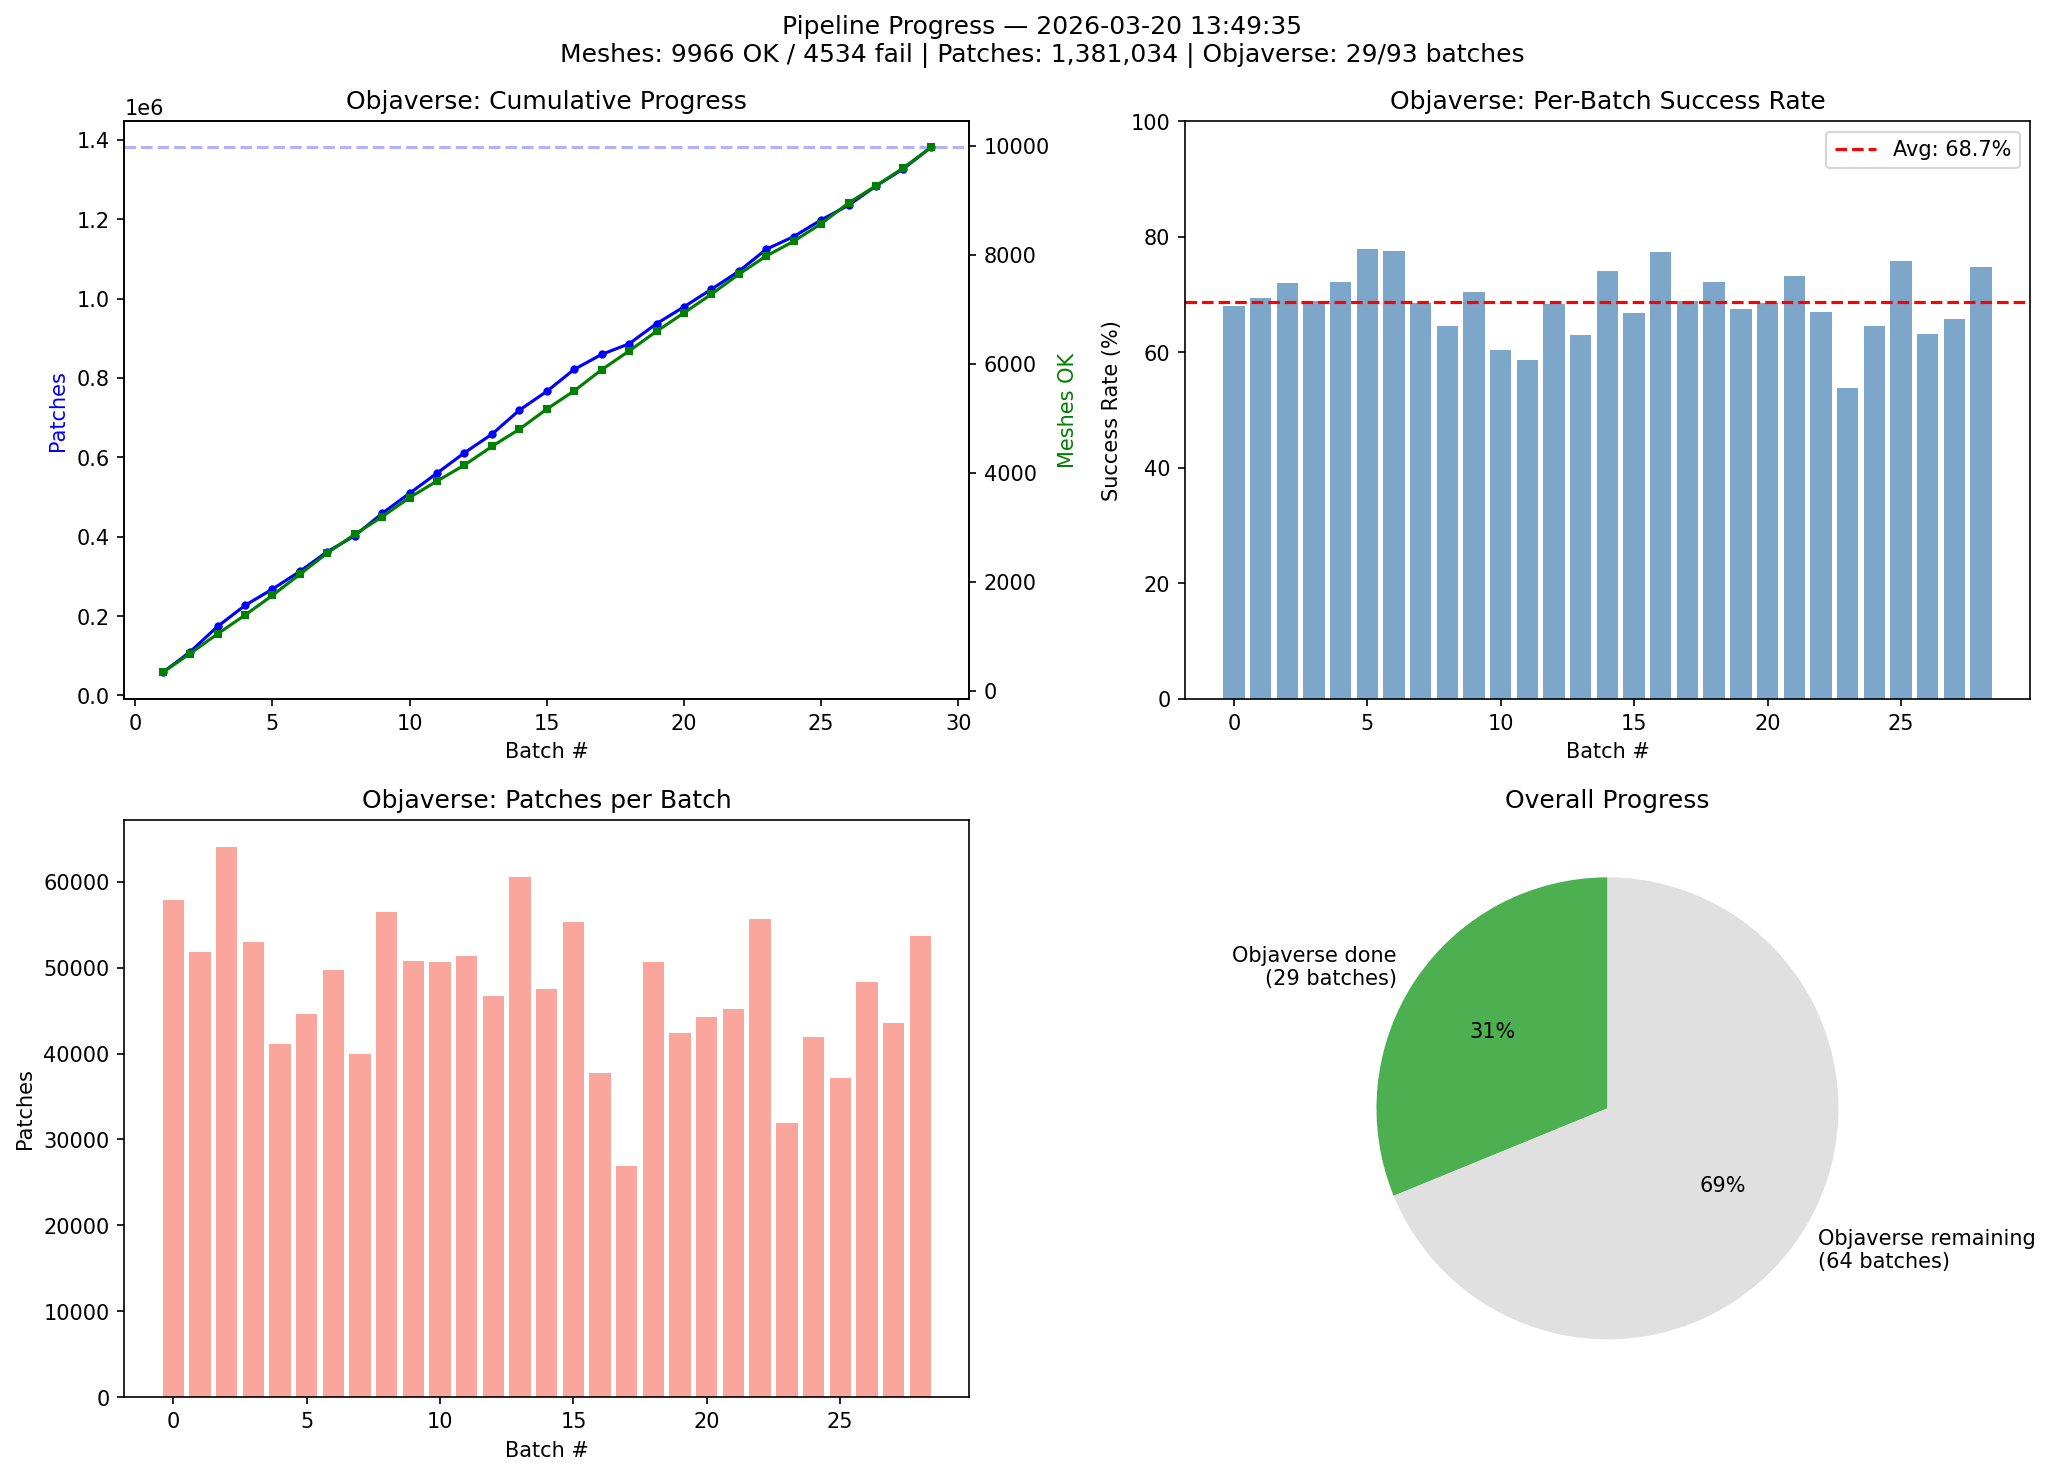
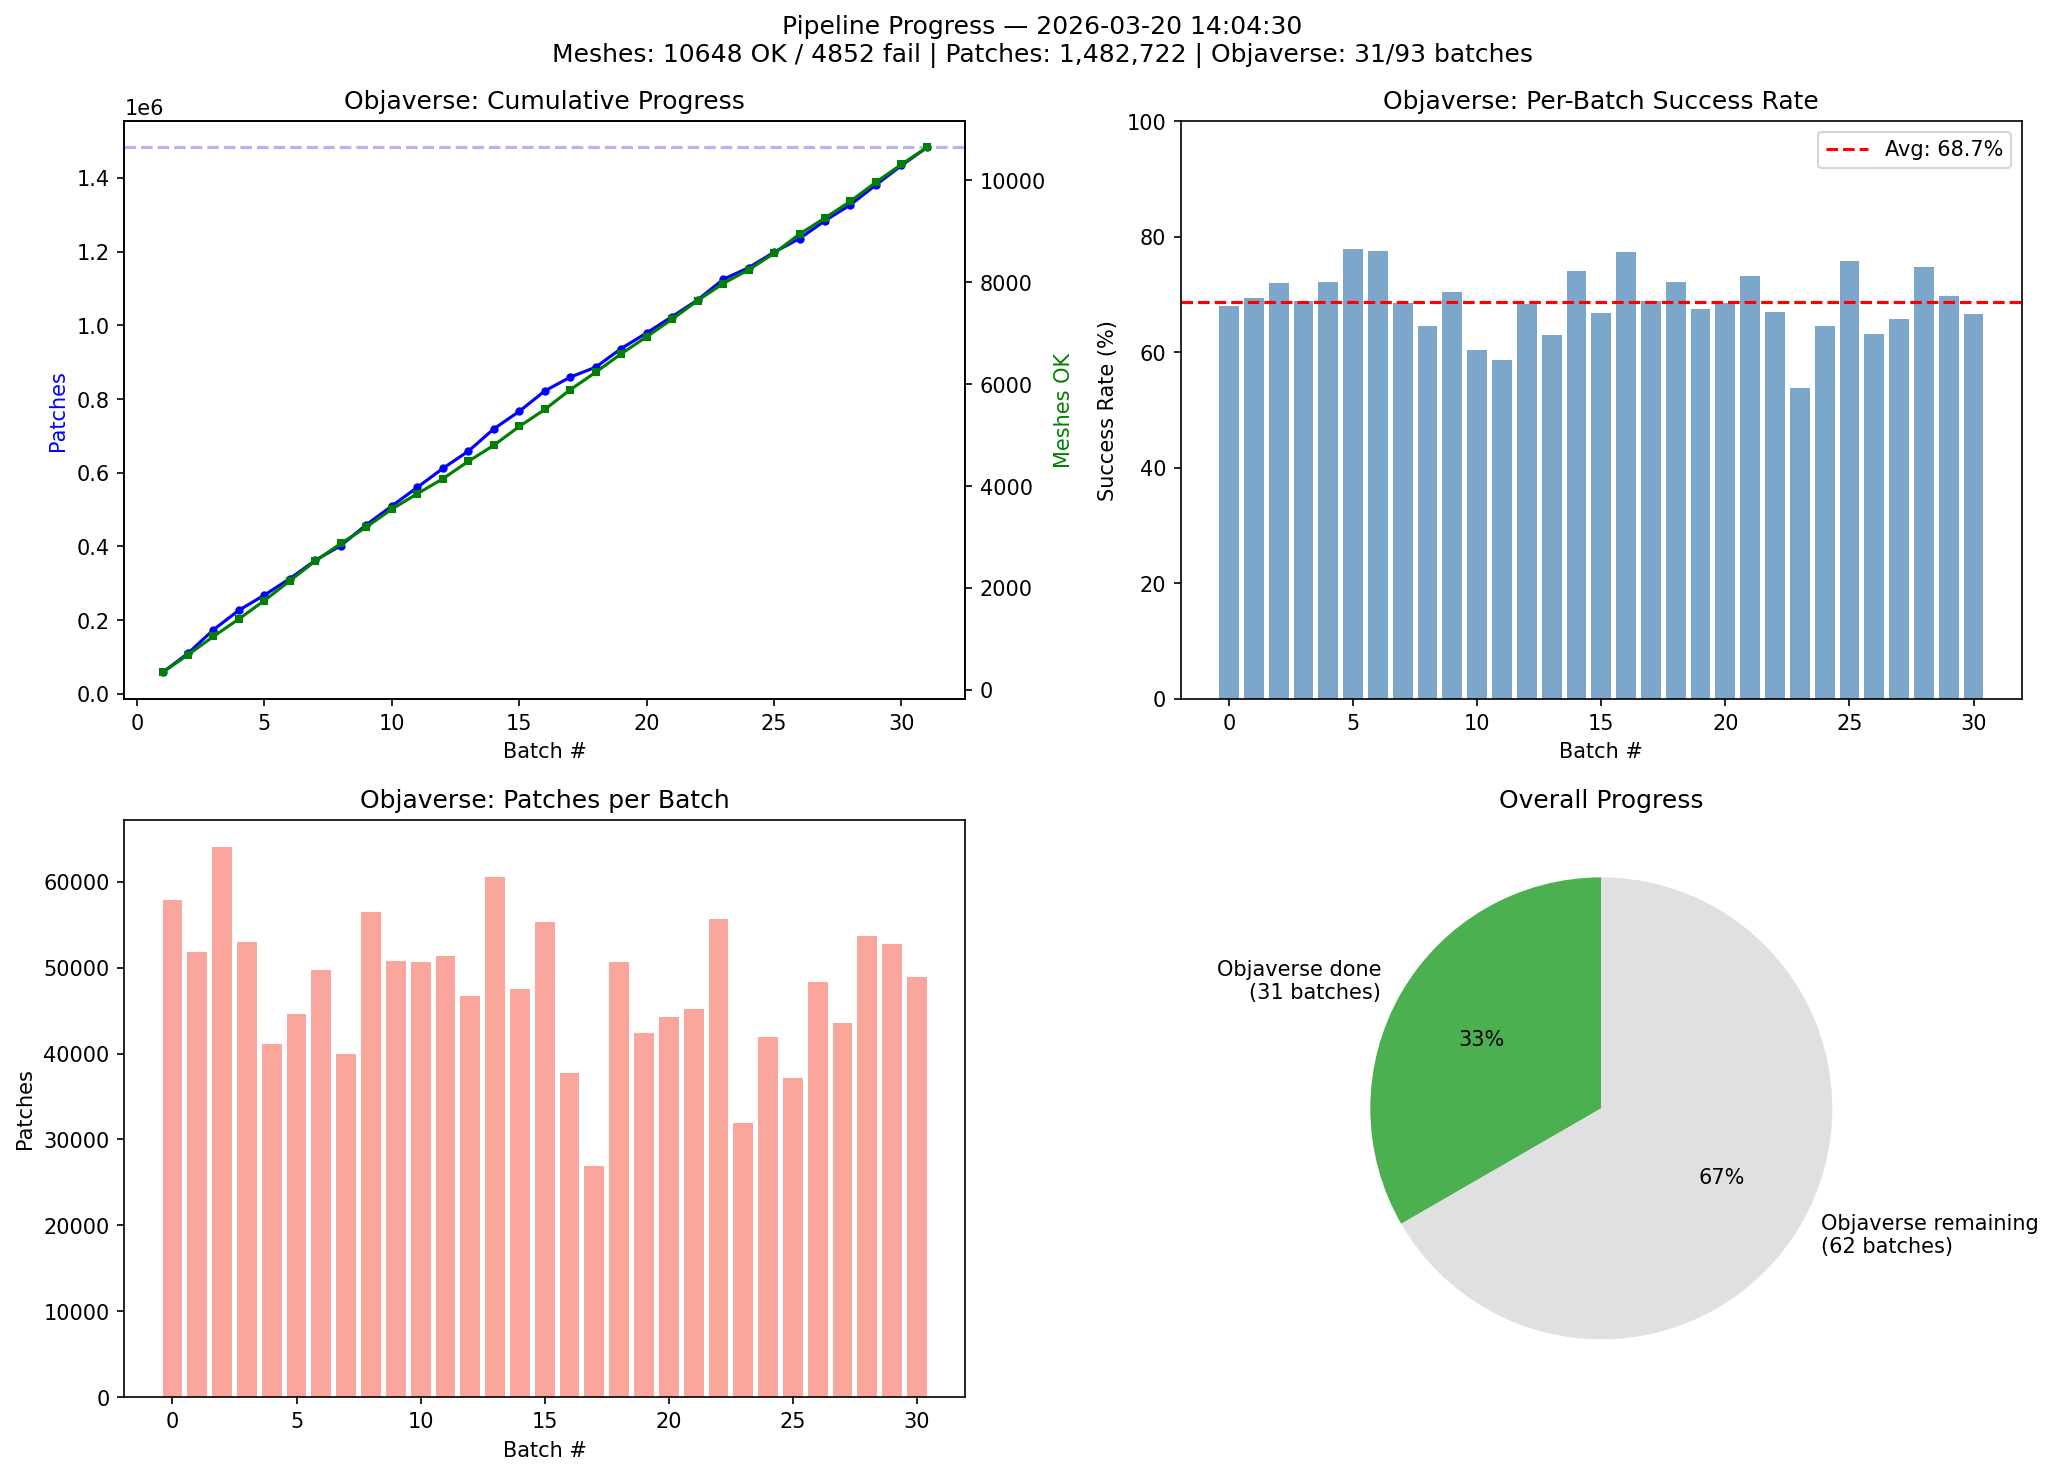
chore: update pipeline monitoring (batch_031 completed)
- Objaverse: 31/93 batches, 10648 OK / 4852 fail
- Patches: 1,482,722

diff --git a/results/dataset-pipeline/REPORT.md b/results/dataset-pipeline/REPORT.md
@@ -1,17 +1,17 @@
 # Dataset Pipeline Progress Report
 
-**Generated:** 2026-03-20 13:49:35
+**Generated:** 2026-03-20 14:04:30
 
 ## Overall
-- Total meshes processed: 9966 OK / 4534 fail
-- Total patches: 1,381,034
+- Total meshes processed: 10648 OK / 4852 fail
+- Total patches: 1,482,722
 
 ## Objaverse-LVIS (Phase 1)
-- Batches: 29 / 93 completed
-- Meshes: 9966 OK / 4534 fail
+- Batches: 31 / 93 completed
+- Meshes: 10648 OK / 4852 fail
 - Success rate: 68.7%
-- Patches: 1,381,034
-- Avg patches/mesh: 138.6
+- Patches: 1,482,722
+- Avg patches/mesh: 139.2
 
 ## ShapeNet (Phase 2)
 - Batches: 0 completed
@@ -21,5 +21,5 @@
 
 ## Disk Usage
 - Total: 80GB
-- Used: 16GB
-- Free: 63GB
+- Used: 15GB
+- Free: 64GB
